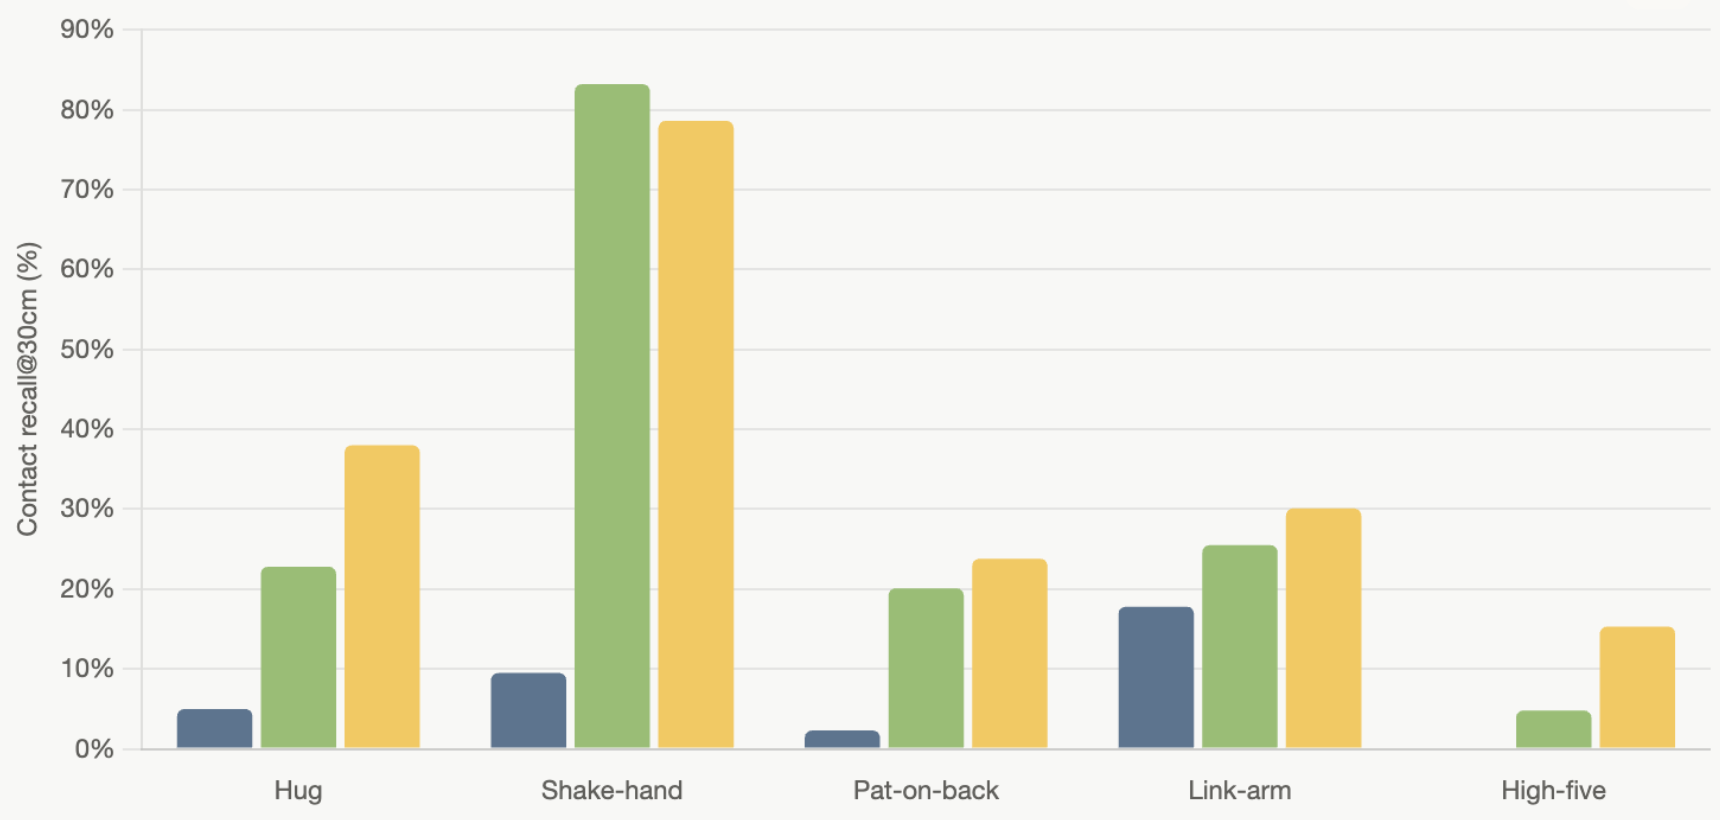
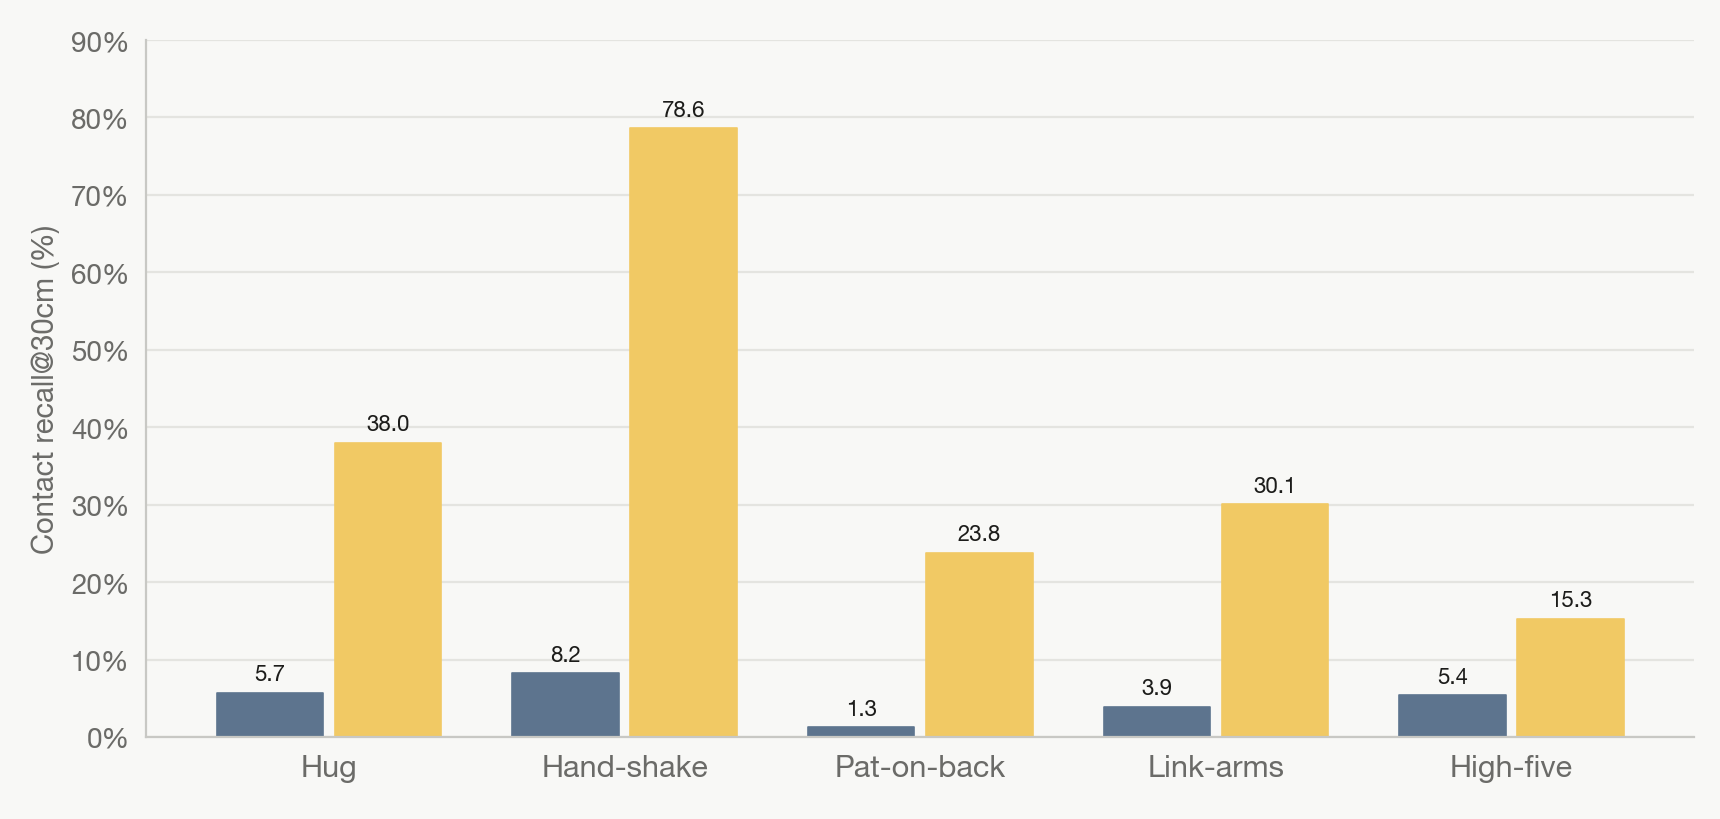
Update result charts to match the camera-ready paper
- Retargeting charts: add the "Ours w/o Stage 2 co-opt" ablation (Tab. 1) with value labels
- New section 09 "Teacher & student policies / quantitative": teacher contact recall@15cm
  and MPJPE (Tab. 2) and the student partner-prediction ablation (Tab. 3)
- Occlusion section: chart now shows only HMR2.0 vs. Ours (E2E) from the appendix table;
  drop the outdated "Ours w/o aux loss" series and update the text
- Renumber subsequent sections and TOC

diff --git a/index.html b/index.html
@@ -35,10 +35,11 @@
   <a href="#contact"><span class="n">06</span>VLM contact annotation</a>
   <a href="#retarget-qual"><span class="n">07</span>Retargeting · qualitative</a>
   <a href="#retarget-quant"><span class="n">08</span>Retargeting · quantitative</a>
-  <a href="#prediction"><span class="n">09</span>Partner prediction</a>
-  <a href="#occlusion"><span class="n">10</span>Occlusion robustness</a>
-  <a href="#contributions"><span class="n">11</span>Key contributions</a>
-  <a href="#bibtex"><span class="n">12</span>BibTeX</a>
+  <a href="#policy-quant"><span class="n">09</span>Teacher &amp; student · quantitative</a>
+  <a href="#prediction"><span class="n">10</span>Partner prediction</a>
+  <a href="#occlusion"><span class="n">11</span>Occlusion robustness</a>
+  <a href="#contributions"><span class="n">12</span>Key contributions</a>
+  <a href="#bibtex"><span class="n">13</span>BibTeX</a>
 </aside>
 
 <main>
@@ -463,14 +464,15 @@
       <p>
         Across a user study and physical-plausibility metrics, REACT attains the best perceived
         quality and the highest contact precision/recall while keeping jitter and penetration low
-        relative to GMR and OmniRetarget.
+        relative to GMR and OmniRetarget. Stage&nbsp;2 co-optimisation lifts recall from 13.4% to 58.0%
+        at unchanged jitter, and VLM verification further raises precision from 11.6% to 14.2%.
       </p>
     </div>
 
     <div class="reveal">
-      <figure class="legendbar quant-legend"><img src="static/images/legend_retarget.png" alt="Legend: GMR, OmniRetarget, Ours w/o VLM, Ours"></figure>
+      <figure class="legendbar quant-legend"><img src="static/images/legend_retarget.png" alt="Legend: GMR, OmniRetarget, Ours w/o Stage 2, Ours w/o VLM, Ours"></figure>
       <div class="quant-layout">
-        <figure class="plate quant-userstudy"><img src="static/images/chart_userstudy.png" alt="User study rank (lower is better)"></figure>
+        <figure class="plate quant-userstudy"><img src="static/images/chart_userstudy.png" alt="User study rank (lower is better); Ours w/o Stage 2 not evaluated"></figure>
         <div class="quant-grid2x2">
           <figure class="plate"><img src="static/images/chart_precision.png" alt="Contact precision (%)"></figure>
           <figure class="plate"><img src="static/images/chart_recall.png" alt="Contact recall (%)"></figure>
@@ -483,11 +485,53 @@
 </section>
 
 
-<!-- ============================ PREDICTION ============================ -->
-<section class="band band--alt" id="prediction">
+<!-- ============================ POLICY QUANT ============================ -->
+<section class="band band--alt" id="policy-quant">
   <div class="wrap">
     <div class="band__head reveal">
       <span class="band__idx">§09</span>
+      <h2 class="band__title">Teacher &amp; student policies <span class="sub-em">/ quantitative</span></h2>
+    </div>
+    <div class="narrow prose reveal">
+      <p>
+        <strong>Teacher.</strong> Both contact components matter on the most contact-rich actions: the
+        <strong class="kc">mesh contact reward</strong> lifts contact recall by +34.3&nbsp;pt on link-arms and
+        +21.7&nbsp;pt on hug, while <strong class="kc">VLM contact filtering</strong> adds +7.0&nbsp;pt on hug,
+        +3.2&nbsp;pt on high-five and +1.4&nbsp;pt on link-arms.
+      </p>
+    </div>
+
+    <div class="reveal">
+      <figure class="legendbar quant-legend"><img src="static/images/legend_teacher.png" alt="Legend: Ours, (-) mesh contact reward, (-) VLM contact filtering"></figure>
+      <div class="quant-grid2x2">
+        <figure class="plate"><img src="static/images/chart_teacher_contact.png" alt="Teacher contact recall at 15 cm (%)"></figure>
+        <figure class="plate"><img src="static/images/chart_teacher_mpjpe.png" alt="Teacher MPJPE (cm)"></figure>
+      </div>
+      <p class="cap">Teacher tracking. Contact recall@15&nbsp;cm (mean &plusmn; std over 3 seeds) and MPJPE.</p>
+    </div>
+
+    <div class="narrow prose reveal" style="margin-top:2rem">
+      <p>
+        <strong>Student.</strong> Behaviour cloning alone is a weak signal for the depth encoder: removing
+        <strong class="kc">partner prediction</strong> lowers held-out contact recall on four of five interactions.
+        Most of the gain comes from <strong class="kc">generating the partner's future</strong>, which adds
+        6.8&ndash;25.3&nbsp;pt on hand-shake, link-arms and pat-on-back; high-five is the exception, where the
+        deterministic variant is best.
+      </p>
+    </div>
+
+    <figure class="plate reveal">
+      <img src="static/images/chart_student_ablation.png" alt="Student contact recall at 30 cm across five actions for Ours and three partner-prediction ablations">
+      <p class="cap">Student policy, contact recall@30&nbsp;cm on the held-out split (mean over 5 room layouts). Components are removed cumulatively.</p>
+    </figure>
+  </div>
+</section>
+
+<!-- ============================ PREDICTION ============================ -->
+<section class="band" id="prediction">
+  <div class="wrap">
+    <div class="band__head reveal">
+      <span class="band__idx">§10</span>
       <h2 class="band__title">Generative human partner prediction</h2>
     </div>
     <div class="narrow prose reveal">
@@ -542,17 +586,17 @@
 
 
 <!-- ============================ OCCLUSION ROBUSTNESS ============================ -->
-<section class="band" id="occlusion">
+<section class="band band--alt" id="occlusion">
   <div class="wrap">
     <div class="band__head reveal">
-      <span class="band__idx">§10</span>
+      <span class="band__idx">§11</span>
       <h2 class="band__title">Robustness under occlusion <span class="sub-em">/ vs. external pose</span></h2>
     </div>
     <div class="narrow prose reveal">
       <p>
-        An external RGB-based human pose estimator (HMR2) becomes inaccurate at close range, where
-        the partner is occluded or truncated. REACT's auxiliary pose loss lets the policy recover
-        interaction state from depth and improves contact recall across nearly all actions.
+        An external RGB-based human pose estimator (HMR2.0) becomes inaccurate at close range, where
+        the partner is occluded or truncated. Feeding its estimate to the policy collapses contact recall
+        on every interaction, while REACT's end-to-end depth policy recovers the interaction state.
       </p>
     </div>
 
@@ -565,10 +609,10 @@
         </p>
       </figure>
       <div>
-        <div class="legendbar"><img src="static/images/legend_insim.png" alt="Legend: External human pose (HMR2), Ours w/o aux loss, Ours (E2E)"></div>
+        <div class="legendbar"><img src="static/images/legend_insim.png" alt="Legend: External human pose (HMR2.0), Ours (E2E)"></div>
         <figure class="plate">
-          <img src="static/images/chart_insim_recall.png" alt="In-sim contact recall@30cm across five actions">
-          <p class="cap">In-sim contact recall@30&nbsp;cm of the student policy across five actions.</p>
+          <img src="static/images/chart_insim_recall.png" alt="In-sim contact recall@30cm across five actions: external pose vs. end-to-end">
+          <p class="cap">In-sim contact recall@30&nbsp;cm across five actions, external pose vs. end-to-end (both with an earlier model setting than the ablation in §09).</p>
         </figure>
       </div>
     </div>
@@ -577,10 +621,10 @@
 
 
 <!-- ============================ CONTRIBUTIONS ============================ -->
-<section class="band band--alt" id="contributions">
+<section class="band" id="contributions">
   <div class="wrap">
     <div class="band__head reveal">
-      <span class="band__idx">§11</span>
+      <span class="band__idx">§12</span>
       <h2 class="band__title">Key contributions</h2>
     </div>
     <div class="contribs reveal">
@@ -611,10 +655,10 @@
 
 
 <!-- ============================ BIBTEX ============================ -->
-<section class="band" id="bibtex">
+<section class="band band--alt" id="bibtex">
   <div class="wrap">
     <div class="band__head reveal">
-      <span class="band__idx">§12</span>
+      <span class="band__idx">§13</span>
       <h2 class="band__title">BibTeX</h2>
     </div>
     <div class="narrow reveal">
